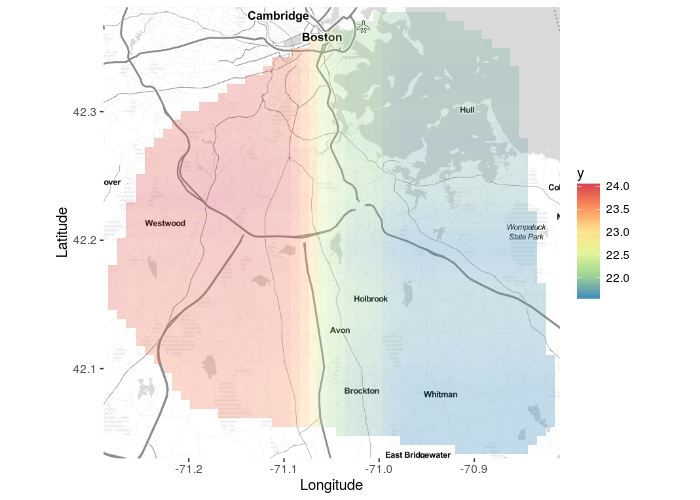
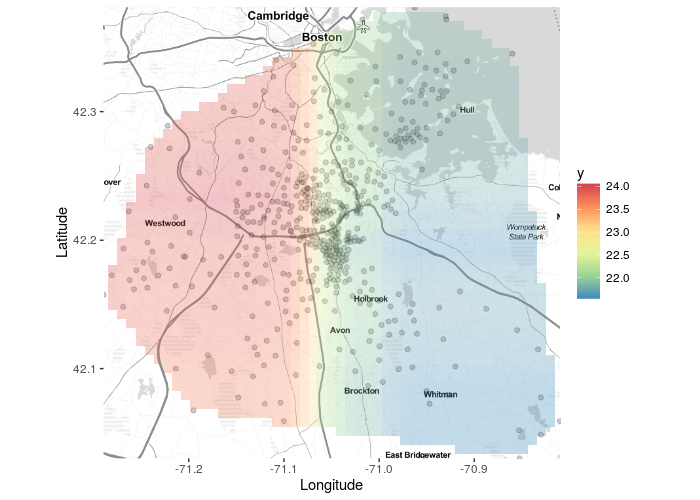
pdated plot

diff --git a/README.md b/README.md
@@ -53,8 +53,8 @@ pd.loc <- partial(boston.rf, pred.var = c("lon", "lat"), chull = TRUE,
 ll <- c(range(boston$lon), range(boston$lat))
 map <- get_map(location = ll[c(1, 3, 2, 4)], zoom = 11, maptype = "toner-lite")
 ggmap(map) + 
-  geom_tile(aes(x = lon, y = lat, z = y, fill = y), 
-            data = pd.loc, alpha = 0.3) +
+  geom_point(aes(x = lon, y = lat), data = boston, alpha = 0.2) +
+  geom_tile(aes(x = lon, y = lat, z = y, fill = y), data = pd.loc, alpha = 0.3) +
   geom_contour(color = "white", alpha = 0.5) +
   scale_fill_distiller(palette = "Spectral") +
   labs(x = "Longitude", y = "Latitude")
